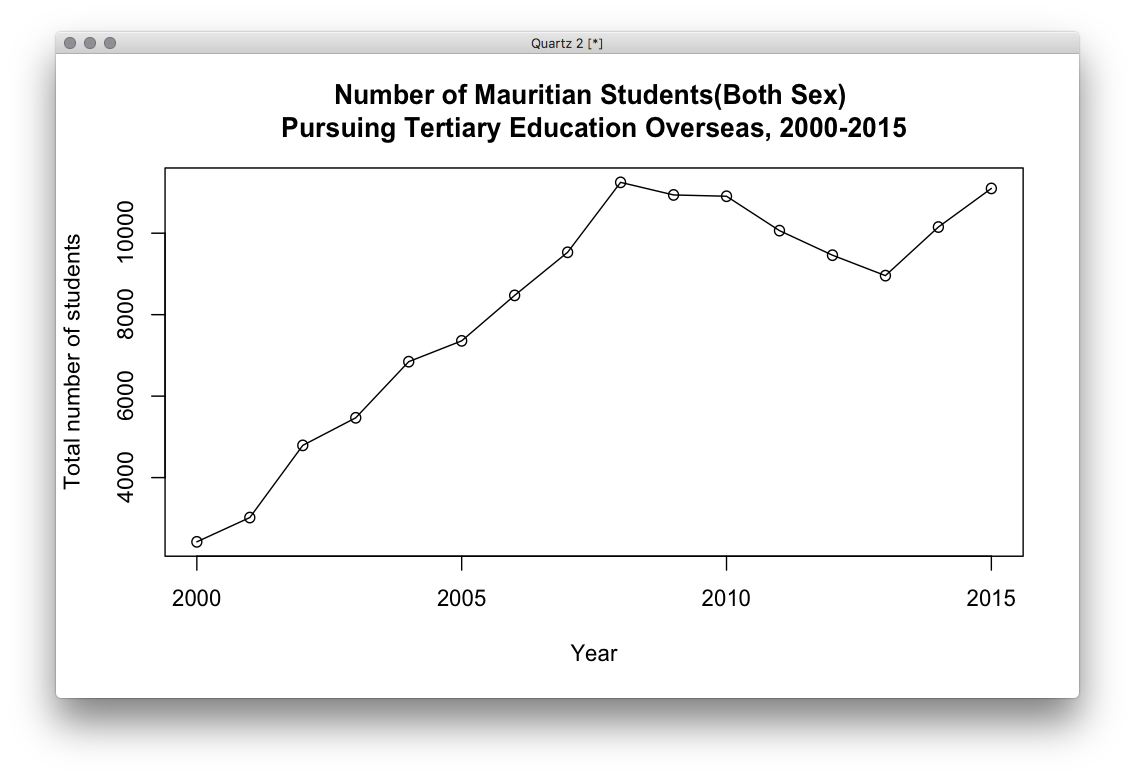
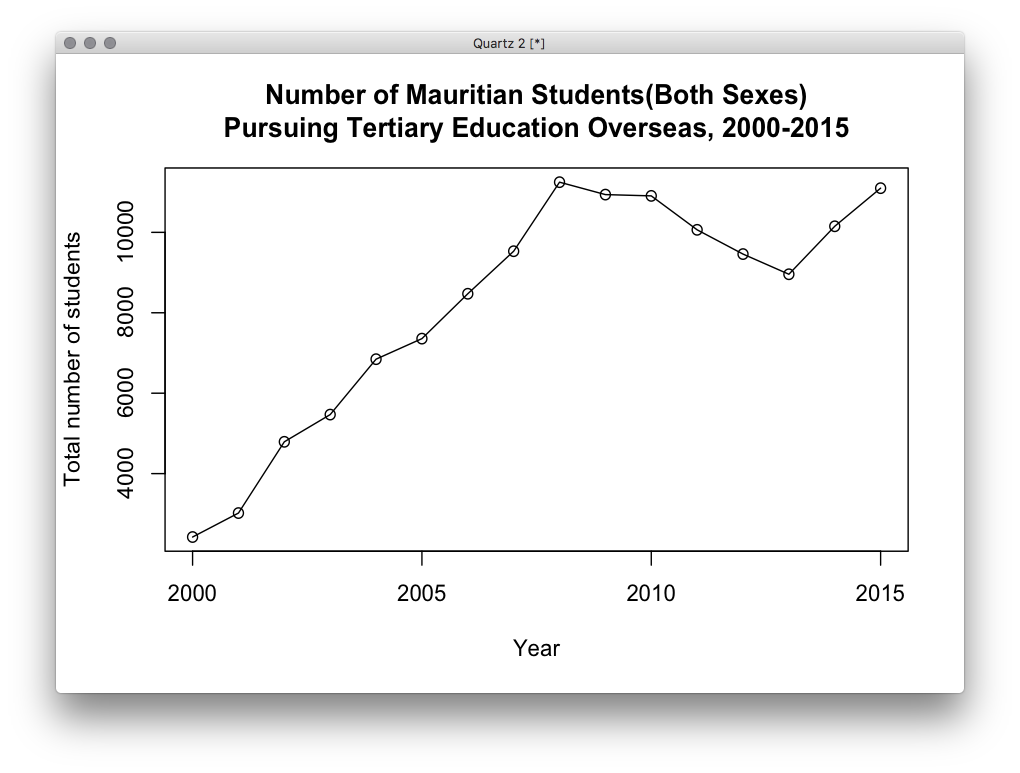
image fixed

diff --git a/explore-opendata-on-data.govmu.org-using-r/index.html b/explore-opendata-on-data.govmu.org-using-r/index.html
@@ -180,7 +180,7 @@ ga('send', 'pageview');
   
   
   &nbsp;|&nbsp;
-  <i class="fa fa-clock-o"></i> 5 minutes (948 words)
+  <i class="fa fa-clock-o"></i> 6 minutes (1095 words)
   
   
 </span>
@@ -266,7 +266,22 @@ datasets</code></pre></div>
 <span class="kp">names</span><span class="p">(</span>datasets<span class="p">)</span>
 
 <span class="c1">#show all titles available</span>
-datasets<span class="o">$</span>title </code></pre></div>
+datasets<span class="o">$</span>title 
+  <span class="p">[</span><span class="m">1</span><span class="p">]</span> <span class="s">&#34;List of Sports Federation in Mauritius&#34;</span>                                                                                           
+  <span class="p">[</span><span class="m">2</span><span class="p">]</span> <span class="s">&#34;List of Secondary Schools in Rodrigues&#34;</span>                                                                                           
+  <span class="p">[</span><span class="m">3</span><span class="p">]</span> <span class="s">&#34;List of Primary Schools in Rodrigues&#34;</span>                                                                                             
+  <span class="p">[</span><span class="m">4</span><span class="p">]</span> <span class="s">&#34;List of Primary Schools in Mauritius&#34;</span>                                                                                             
+  <span class="p">[</span><span class="m">5</span><span class="p">]</span> <span class="s">&#34;List of Secondary Schools in Mauritius&#34;</span>                                                                                           
+  <span class="p">[</span><span class="m">6</span><span class="p">]</span> <span class="s">&#34;List of Youth Centres in Mauritius&#34;</span>                                                                                               
+  <span class="p">[</span><span class="m">7</span><span class="p">]</span> <span class="s">&#34;List of Police Stations in Mauritius&#34;</span>                                                                                             
+  <span class="p">[</span><span class="m">8</span><span class="p">]</span> <span class="s">&#34;Primary Enrolment and Gross Enrolment Ratio1 by sex, Island of Mauritius&#34;</span>                                                         
+  <span class="p">[</span><span class="m">9</span><span class="p">]</span> <span class="s">&#34;Number of primary schools, pupils, personnel and pupil/teacher ratio, Republic of Mauritius, 1967 - 2016\t\t&#34;</span>                     
+ <span class="p">[</span><span class="m">10</span><span class="p">]</span> <span class="s">&#34;Number of Mauritian Students Pursuing  Tertiary Education Overseas by sex&#34;</span>                                                        
+ <span class="p">[</span><span class="m">11</span><span class="p">]</span> <span class="s">&#34;New Admissions on Tertiary Education Level Programmes by source&#34;</span>                                                                  
+ <span class="p">[</span><span class="m">12</span><span class="p">]</span> <span class="s">&#34;Gross Tertiary Enrolment Rate (GTER) in Tertiary Education by sex, 2000 - 2015&#34;</span>                                                   
+ <span class="p">[</span><span class="m">13</span><span class="p">]</span> <span class="s">&#34;Enrolment of International Students in Tertiary Education locally by sex&#34;</span>                                                         
+ <span class="p">[</span><span class="m">14</span><span class="p">]</span> <span class="s">&#34;Enrolment in Special Education needs in schools - Island of Mauritius, Island of Rodrigues &amp; Republic of Mauritius, 2010 - 2016&#34;</span>  
+<span class="kc">...</span> truncated</code></pre></div>
 <h2 id="exploring-a-particular-dataset">Exploring a particular dataset</h2>
 
 <p>Once you have identified a particular dataset you are interested in exploring, you can display it&rsquo;s relevant metadata. The datasets are identified by the <code>node ID</code>.</p>
@@ -342,7 +357,7 @@ resource_data <span class="o">&lt;-</span> read.csv2<span class="p">(</span>reso
 plot<span class="p">(</span>resource_data<span class="o">$</span>Year<span class="p">,</span>resource_data<span class="o">$</span>Number.of.Mauritian.Students.Pursuing.Tertiary.Education..Overseas.Total<span class="p">,</span> type <span class="o">=</span> <span class="s">&#34;o&#34;</span><span class="p">,</span> xlab <span class="o">=</span> <span class="s">&#34;Year&#34;</span><span class="p">,</span> ylab <span class="o">=</span> <span class="s">&#34;Total number of students&#34;</span><span class="p">)</span>
 
 <span class="c1">#give the chart a title</span>
-title<span class="p">(</span>main <span class="o">=</span> <span class="s">&#34;Number of Mauritian Students(Both Sex)\nPursuing Tertiary Education Overseas, 2000-2015&#34;</span><span class="p">)</span></code></pre></div>
+title<span class="p">(</span>main <span class="o">=</span> <span class="s">&#34;Number of Mauritian Students(Both Sexes)\nPursuing Tertiary Education Overseas, 2000-2015&#34;</span><span class="p">)</span></code></pre></div>
 <div align="center">
 <p><img src="/img/opendata-dkanr/opendata-dkanr.png" alt="line chart visualisation"></p> 
  </div>

diff --git a/categories/blog/index.html b/categories/blog/index.html
@@ -183,7 +183,7 @@ ga('send', 'pageview');
   
   
   &nbsp;|&nbsp;
-  <i class="fa fa-clock-o"></i> 5 minutes (948 words)
+  <i class="fa fa-clock-o"></i> 6 minutes (1095 words)
   
   
 </span>

diff --git a/index.html b/index.html
@@ -200,7 +200,7 @@ ga('send', 'pageview');
   
   
   &nbsp;|&nbsp;
-  <i class="fa fa-clock-o"></i> 5 minutes (948 words)
+  <i class="fa fa-clock-o"></i> 6 minutes (1095 words)
   
   
 </span>

diff --git a/post/index.html b/post/index.html
@@ -183,7 +183,7 @@ ga('send', 'pageview');
   
   
   &nbsp;|&nbsp;
-  <i class="fa fa-clock-o"></i> 5 minutes (948 words)
+  <i class="fa fa-clock-o"></i> 6 minutes (1095 words)
   
   
 </span>

diff --git a/tags/dkan/index.html b/tags/dkan/index.html
@@ -183,7 +183,7 @@ ga('send', 'pageview');
   
   
   &nbsp;|&nbsp;
-  <i class="fa fa-clock-o"></i> 5 minutes (948 words)
+  <i class="fa fa-clock-o"></i> 6 minutes (1095 words)
   
   
 </span>

diff --git a/tags/opendata/index.html b/tags/opendata/index.html
@@ -183,7 +183,7 @@ ga('send', 'pageview');
   
   
   &nbsp;|&nbsp;
-  <i class="fa fa-clock-o"></i> 5 minutes (948 words)
+  <i class="fa fa-clock-o"></i> 6 minutes (1095 words)
   
   
 </span>

diff --git a/tags/r/index.html b/tags/r/index.html
@@ -183,7 +183,7 @@ ga('send', 'pageview');
   
   
   &nbsp;|&nbsp;
-  <i class="fa fa-clock-o"></i> 5 minutes (948 words)
+  <i class="fa fa-clock-o"></i> 6 minutes (1095 words)
   
   
 </span>
